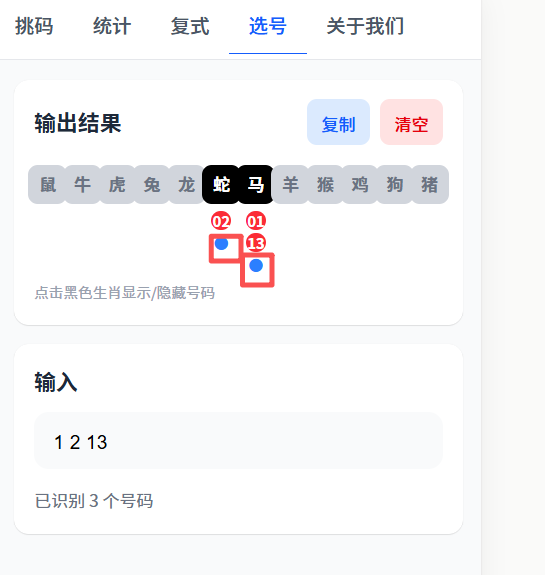
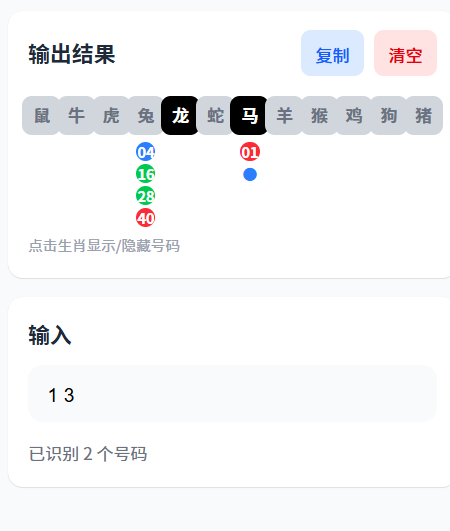
feat: 点击灰色生肖时自动选中并复制所有可见号码

diff --git a/src/pages/index/index.tsx b/src/pages/index/index.tsx
@@ -130,6 +130,23 @@ const IndexPage = () => {
 
   // 切换生肖号码的显示状态
   const toggleZodiacVisibility = (zodiac: string) => {
+    const isSelected = isZodiacSelected(zodiac)
+    
+    if (!isSelected) {
+      // 如果生肖未被选中（灰色卡片），先将其所有号码添加到选号结果中
+      const zodiacNumbers = ZODIAC_TO_NUMBERS[zodiac] || []
+      setSelectNumbers(prev => {
+        const newNumbers = [...prev]
+        zodiacNumbers.forEach(num => {
+          if (!newNumbers.includes(num)) {
+            newNumbers.push(num)
+          }
+        })
+        return newNumbers
+      })
+    }
+    
+    // 切换可见性
     setVisibleZodiacs(prev => {
       const newSet = new Set(prev)
       if (newSet.has(zodiac)) {
@@ -161,9 +178,16 @@ const IndexPage = () => {
     }
   }
 
-  // 复制选号结果
+  // 复制选号结果（复制所有可见的号码）
   const copySelectResults = () => {
-    const resultText = selectNumbers
+    // 收集所有可见生肖的号码
+    const allVisibleNumbers = new Set<number>()
+    ZODIAC_LIST.forEach(zodiac => {
+      const visibleNums = getVisibleNumbersByZodiac(zodiac)
+      visibleNums.forEach(num => allVisibleNumbers.add(num))
+    })
+    
+    const resultText = Array.from(allVisibleNumbers)
       .sort((a, b) => a - b)
       .map(num => num < 10 ? `0${num}` : `${num}`)
       .join(' ')
